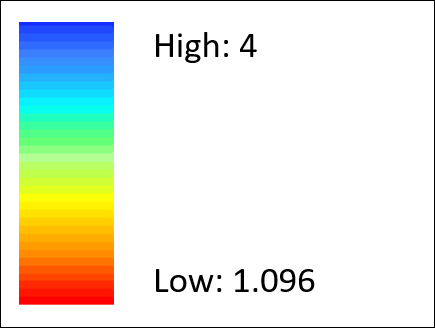
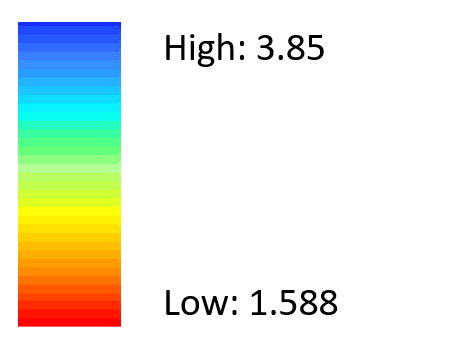
Added Egypt Data

diff --git a/gafrd_portal_app/templates/index.html b/gafrd_portal_app/templates/index.html
@@ -169,11 +169,11 @@
 
         <div id="results_div" class="results">
             <h2 style="padding-right: 40%;">نتائج البحث</h2>
-            <input name="result_checkbox" type="checkbox" onclick="checkbox_status('FinalSuitabilityMapModelReclassify')"
+            <!-- <input name="result_checkbox" type="checkbox" onclick="checkbox_status('FinalSuitabilityMapModelReclassify')"
                    id="FinalSuitabilityMapModelReclassify"/><label style="float: left;">Final Suitability Map Model
             Reclassify</label><br/>
             <input name="result_checkbox" type="checkbox" onclick="checkbox_status('FinalSuitabilityMapModel')" id="FinalSuitabilityMapModel"/><label
-                style="float: left;">Final Suitability Map Model</label><br/>
+                style="float: left;">Final Suitability Map Model</label><br/> -->
             <input name="result_checkbox" type="checkbox" onclick="checkbox_status('FinalSuitabilityModel')" id="FinalSuitabilityModel"/><label
                 style="float: left;">Final Suitability Model</label><br/>
             <input name="result_checkbox" type="checkbox" onclick="checkbox_status('SoilSubModel')" id="SoilSubModel"/><label
@@ -389,12 +389,27 @@ function checkbox_status(id){
 }
 
 function load_results(id){
-	var imageUrl = 'http://127.0.0.1:8000/static/model_results/'+id+'.png';
-    var imageBounds = [[-22.137060, 26.406370], [-25.436225, 31.788092]];
+    var top_eg = 31.578858103
+    var left_eg = 30.0000002375
+    var right_eg = 32.0107141575
+    var bottom_eg = 30.6609431859
+
+    // Extent for South Africa Data
+    /*
+    var top_sa = -22.137060
+    var left_sa = 31.788092
+    var right_sa = 26.406370
+    var bottom_sa = -25.436225
+    */
+
+    var imageUrl = 'http://127.0.0.1:8000/static/model_results/'+id+'.png';
+    //var imageBounds = [[-22.137060, 26.406370], [-25.436225, 31.788092]]; // for south africa data
+    var imageBounds = [[top_eg, right_eg], [bottom_eg, left_eg]];
 	image = L.imageOverlay(imageUrl, imageBounds);
 	image.addTo(map);
 	image.bringToFront();
-	map.setView(new L.LatLng(-23.475295543475283,29.17847128786904), 8);
+	//map.setView(new L.LatLng(-23.475295543475283,29.17847128786904), 8); // for south africa data
+	map.setView(new L.LatLng(31.047621381135954, 31.09472389830886), 9);
 	listOfImages.push(image);
 }
 
@@ -413,7 +428,7 @@ function remove_results(id){
 }
 
 function load_legend_img(id){
-    document.getElementById("legend_img_src").src = 'http://127.0.0.1:8000/static/Legend/'+id+'.png';
+    document.getElementById("legend_img_src").src = 'http://127.0.0.1:8000/static/legend/'+id+'.png';
     listOfLegendImages.push(id);
 }
 
@@ -426,14 +441,15 @@ function remove_legend_img(id){
     		}
     	}
 	});
-    document.getElementById("legend_img_src").src = 'http://127.0.0.1:8000/static/Legend/'+listOfLegendImages.at(-1)+'.png';
+    document.getElementById("legend_img_src").src = 'http://127.0.0.1:8000/static/legend/'+listOfLegendImages.at(-1)+'.png';
 }
 
 function display_results(){
 	document.getElementById("results_div").style.display = 'block';
 	document.getElementById("legend_div").style.display = 'block';
 	document.getElementById("parameters_div").style.display = 'none';
-	map.setView(new L.LatLng(-23.475295543475283,29.17847128786904), 8);
+	//map.setView(new L.LatLng(-23.475295543475283,29.17847128786904), 8); //for South Africa
+	map.setView(new L.LatLng(31.047621381135954, 31.09472389830886), 9);
 }
 
 function hide_results(){

diff --git a/gafrd_portal_app/background_removal.py b/gafrd_portal_app/background_removal.py
@@ -1,10 +1,10 @@
 import cv2
 
-file_name = "C:/Users/akotb/PycharmProjects/GAFRD_Portal/gafrd_portal_app/static/model_results/WaterAvailabilitySubModel.png"
+file_name = "C:/Users/akotb/PycharmProjects/GAFRD_Portal/gafrd_portal_app/static/model_results/FinalRestrictionModel.png"
 src = cv2.imread(file_name, 1)
 tmp = cv2.cvtColor(src, cv2.COLOR_BGR2GRAY)
 _,alpha = cv2.threshold(tmp,0,255,cv2.THRESH_BINARY)
 b, g, r = cv2.split(src)
 rgba = [b,g,r, alpha]
 dst = cv2.merge(rgba,4)
-cv2.imwrite("C:/Users/akotb/PycharmProjects/GAFRD_Portal/gafrd_portal_app/static/model_results/WaterAvailabilitySubModel.png", dst)
+cv2.imwrite("C:/Users/akotb/PycharmProjects/GAFRD_Portal/gafrd_portal_app/static/model_results/FinalRestrictionModel.png", dst)

diff --git a/gafrd_portal_app/views.py b/gafrd_portal_app/views.py
@@ -42,8 +42,8 @@ def elibrary(request):
 def model_call(request):
     if request.method == 'POST' and 'run_module' in request.POST:
 
-        in_dir = r'D:\Work\GAFRD_Portal\Model_Data\inputs'
-        out_dir = r'D:\Work\GAFRD_Portal\Model_Data\outputs'
+        in_dir = r'D:\Work\GAFRD_Portal\Model_Data\inputs\Egypt'
+        out_dir = r'D:\Work\GAFRD_Portal\Model_Data\outputs\Egypt'
 
         ExecuteModel.run(in_dir, out_dir)
 
